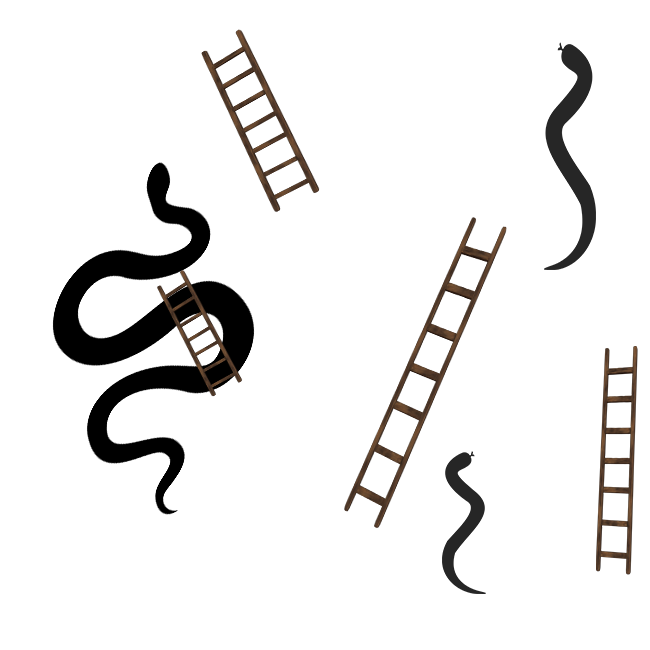
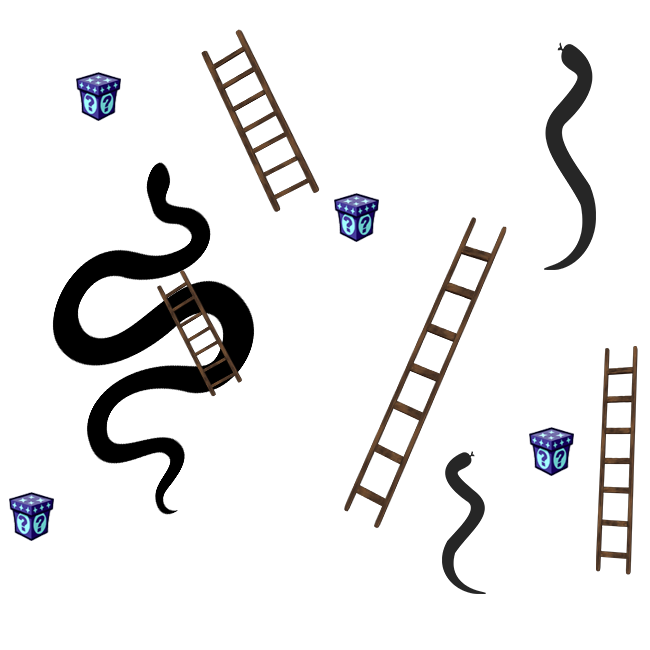
The snow theme

diff --git a/snadder/script.js b/snadder/script.js
@@ -102,7 +102,7 @@ function player() {
     name: pName,
     color: colors[pID],
     position: 0,
-    curr_effect: [],
+    curr_effects: { antidote: 0, stick: 0, double: 0 },
     alive: true,
   };
   return new_player;
@@ -123,10 +123,83 @@ function update_players() {
 
 function check_positions() {
   players = JSON.parse(localStorage.getItem("players"));
+  board_data = {
+    10: 50,
+    15: 68,
+    20: "mb",
+    28: 8,
+    29: "mb",
+    37: 58,
+    65: 97,
+    66: "mb",
+    78: 18,
+    82: "mb",
+    92: 52,
+  };
+  powers = {
+    1: "booster",
+    2: "antidote",
+    3: "double",
+    4: "stick",
+  };
   for (let i = 0; i < parseInt(localStorage.getItem("no-of-players")); i++) {
     if (players[i].position >= 99) {
       alert("player " + players[i].name + " has won the game");
       reset_board();
+    }
+    temp = board_data[players[i].position + 1];
+    if (temp != undefined) {
+      if (String(temp) == "mb") {
+        power = powers[Math.floor(Math.random() * (4 - 1 + 1) + 1)];
+        console.log("power" + power);
+        switch (power) {
+          case "booster":
+            players[i].position =
+              temp + Math.floor(Math.random() * (6 - 3 + 3) + 3) - 1;
+            break;
+          case "antidote":
+            players[i]["curr_effects"].antidote = 3;
+            break;
+          case "double":
+            players[i]["curr_effects"].double = 2;
+            break;
+          case "stick":
+            players[i]["curr_effects"].stick = 2;
+            break;
+        }
+      } else {
+        if (players[i]["curr_effects"].antidote != 0) {
+          if (players[i].position > temp) {
+            alert("antidote is in effect for player " + players[i].name);
+          }
+        } else {
+          if (players[i]["curr_effects"].double != 0) {
+            alert("Doubling the dice number for player " + players[i].name);
+            players[i].position = temp * 2 - 1;
+          } else {
+            if (players[i]["curr_effects"].stick != 0) {
+              alert("Player " + players[i].name + " has 'stick' in effect");
+            } else {
+              players[i].position = temp - 1;
+            }
+          }
+        }
+
+        players[i]["curr_effects"].antidote =
+          players[i]["curr_effects"].antidote > 0
+            ? players[i]["curr_effects"].antidote - 1
+            : 0;
+        players[i]["curr_effects"].double =
+          players[i]["curr_effects"].double > 0
+            ? players[i]["curr_effects"].double - 1
+            : 0;
+        players[i]["curr_effects"].stick =
+          players[i]["curr_effects"].stick > 0
+            ? players[i]["curr_effects"].stick - 1
+            : 0;
+        localStorage.setItem("players", JSON.stringify(players));
+        update_players();
+      }
     }
   }
 }
@@ -166,6 +239,25 @@ function move_player(pID, moves) {
       : parseInt(localStorage.getItem("current-player")) + 1
   );
   update_score_and_turn();
+}
+
+function change_theme(themeName) {
+  switch (themeName) {
+    case "jungle":
+      $("body").css({ background: "#ffffcc" });
+      $("#main").css({
+        background: "url(./theme/jungle.png)",
+        "background-size": "cover",
+      });
+      break;
+    case "ice":
+      $("body").css({ background: "#cceeff" });
+      $("#main").css({
+        background: "url(./theme/snow.gif), url(./theme/snowy-mountains.png)",
+        "background-size": "auto, contain",
+      });
+      break;
+  }
 }
 //#endregion Functionalities
 
@@ -237,7 +329,7 @@ var box = `
 `;
 
 var curr_player = `
-<p class="h3" style="color: myColor">Curent turn: name</p>
+<p class="h3" style="color: myColor; margin: 20px;">Curent turn: name</p>
 `;
 
 var invisible_board = `

diff --git a/snadder/index.html b/snadder/index.html
@@ -1,5 +1,6 @@
 <!DOCTYPE html>
-<html lang="en" data-bs-theme="dark">
+<!-- <html lang="en" data-bs-theme="dark"> -->
+<html lang="en">
   <head>
     <meta charset="UTF-8" />
     <meta http-equiv="X-UA-Compatible" content="IE=edge" />
@@ -13,12 +14,15 @@
     <link href="./style.css" rel="stylesheet" />
     <title>Snadder</title>
   </head>
-  <body>
+  <body style="background: #ffffcc">
     <div
       id="main"
       class="container-fluid vh-100 d-flex justify-content-center align-items-center"
+      style="background: url('./theme/jungle.png'); background-size: cover"
     >
       <div id="initial-screen" class="play">
+        <h3>Welcome to</h3>
+        <h1>Snadders!</h1>
         <button type="button" id="play-btn" class="btn btn-success">
           play
         </button>

diff --git a/snadder/style.css b/snadder/style.css
@@ -3,6 +3,13 @@
   height: 50px !important;
 }
 
+.play {
+  display: flex;
+  justify-content: center;
+  align-items: center;
+  flex-direction: column;
+}
+
 .dice-container {
   position: absolute;
   top: 0;
@@ -39,4 +46,10 @@
 
 .ladder {
   position: absolute;
+}
+
+#curr-player {
+  background: #e19f65;
+  border-radius: 25px;
+  border: 5px solid #4b1a1a;
 }
